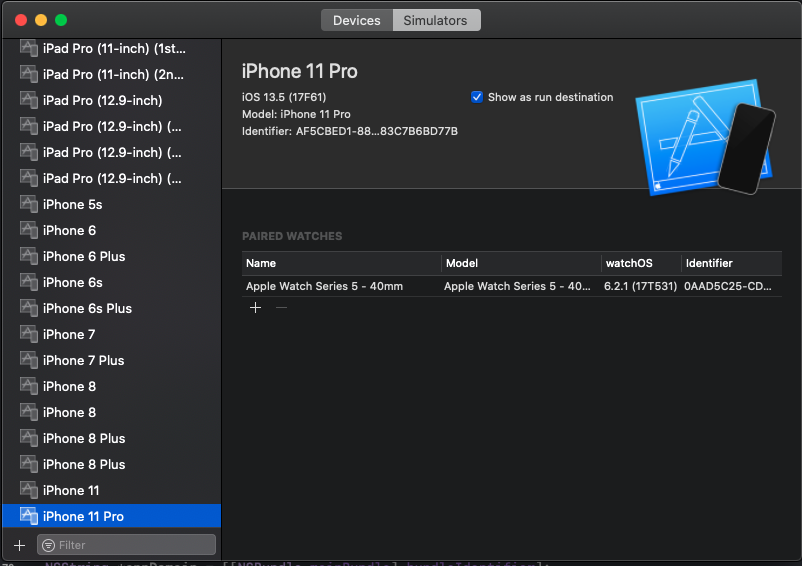
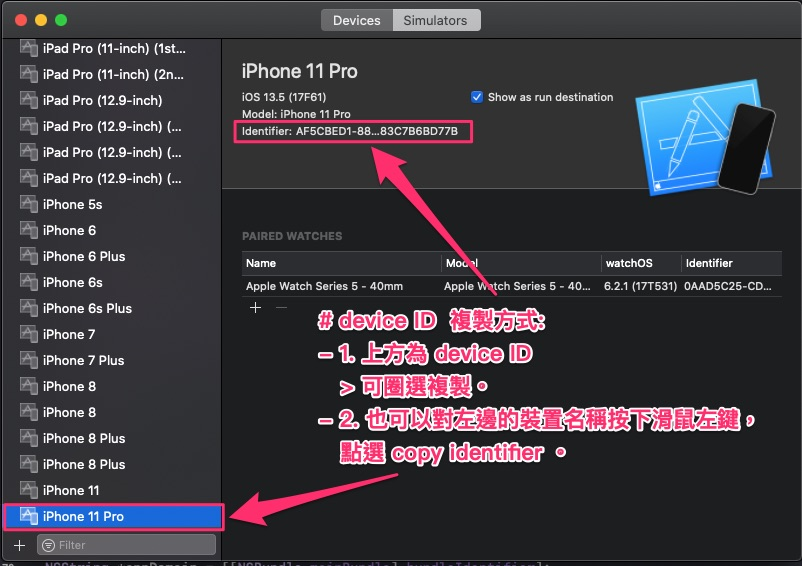
[docs] [feat] [AppCOntainerPos]
# [docs] [feat] [AppCOntainerPos]

- 新增 command line 切換到 simulator devices 資料夾的方式

diff --git a/AppContainerPos/README.md b/AppContainerPos/README.md
@@ -35,7 +35,103 @@
 
     ![Find app container @ Simulator](./pics/2020-05-28-15-51-16.png)
 
-> 可能用程式碼，dump document path 會比較快 (哈)
+  > 可能用程式碼，dump document path 會比較快 (哈)
+
+- 用 command line 方式 :
+
+  - xcode simulator devices 路徑如下 :
+
+    ```sh
+    cd ~/Library/Developer/CoreSimulator/Devices
+    ```
+
+    > 此為所有的 simulator devices 的根目錄。
+
+  - Device ID :
+
+    切換到 simulator devices 後，
+
+    可以下 `ls -al` 查看所有的資料夾。
+
+    每個資料夾名稱都代表一個 Device ID。
+
+    對應上述的 Device ID 會在這個資料夾下面有對應的內容。
+
+  - 範例 :
+
+    ```log
+    total 24
+    drwxr-xr-x  69 esp  staff   2208  6  1 17:37 .
+    drwxr-xr-x   5 esp  staff    160  4  1 13:49 ..
+    drwxr-xr-x@  4 esp  staff    128  4  6 18:03 0025B218-3891-4551-AD6F-55DE7B9D7C0F
+    drwxr-xr-x@  4 esp  staff    128  3 16 16:58 00A7F0E4-AFE2-4608-837A-7BABEF86E4A9
+    drwxr-xr-x@  4 esp  staff    128  3 16 16:58 00F918D7-1AE2-4F8F-AF16-FD5D5C9435F4
+    drwxr-xr-x@  4 esp  staff    128  4  6 18:33 02237A65-45CA-4935-ADA7-AD1E409692F3
+    drwxr-xr-x@  4 esp  staff    128  4  6 18:58 02691928-A0CE-4291-8DD1-5EFB9FEB5BED
+    drwxr-xr-x@  4 esp  staff    128  3 16 16:58 03213B01-C7BE-4009-B6BE-59A7FA5CD6EC
+    drwxr-xr-x@  4 esp  staff    128  4  6 18:58 059770F1-3596-4591-802D-6BA6E2ABE626
+    drwxr-xr-x@  4 esp  staff    128  4  6 18:58 07A2760B-60B8-4794-B24C-9966F3DD8A11
+    drwxr-xr-x@  4 esp  staff    128  3 16 16:58 0A9450D7-CD12-400A-8F77-7FC687E5346A
+    drwxr-xr-x@  4 esp  staff    128  4  6 18:58 0AD814BC-3F25-4D2B-9A8E-F913FF442275
+    drwxr-xr-x@  4 esp  staff    128  3 16 16:58 0EC124F3-24BC-45E4-B75E-E6E11A952060
+    drwxr-xr-x@  4 esp  staff    128  4  6 18:58 128C9445-64B6-44C2-B716-492E9F595DA9
+    drwxr-xr-x@  4 esp  staff    128  4  6 18:58 153AF199-44CD-4410-9379-FF6BD34F3228
+    drwxr-xr-x@  4 esp  staff    128  4  6 18:33 182F929E-DFB8-4878-843C-356D82C03D99
+    drwxr-xr-x@  4 esp  staff    128  4  6 18:58 1960E393-61BB-4425-BDC6-F33DDA4B0941
+    drwxr-xr-x@  4 esp  staff    128  3 16 16:58 1D107B33-0FFF-4FFB-A1D5-7F0F58B58B7B
+    drwxr-xr-x@  4 esp  staff    128  3 16 16:58 26CE726A-FB50-4EB6-834F-E24C8413FFBB
+    drwxr-xr-x@  4 esp  staff    128  4  6 18:33 2E0042F1-992A-4DAC-A186-3B2B8A5151E9
+    drwxr-xr-x@  4 esp  staff    128  3 16 16:58 308D86F7-05EC-4D22-A4E9-B9525A4A3F0B
+    drwxr-xr-x@  4 esp  staff    128  4  6 18:58 324020A2-EB28-4ECC-9C26-7CE2079D1680
+    drwxr-xr-x@  4 esp  staff    128  4  6 18:03 3667D31F-5357-4F59-8C32-326A1B187345
+    drwxr-xr-x@  4 esp  staff    128  5  6 21:10 368062FA-E0F4-49BB-8D23-5694EC6E5FDE
+    drwxr-xr-x@  4 esp  staff    128  4  6 17:51 3A75844C-5FD3-490F-BFB1-71866650EF5C
+    drwxr-xr-x@  4 esp  staff    128  4  6 18:58 42041F39-730B-46E9-9C2A-1819B8286526
+    drwxr-xr-x@  4 esp  staff    128  4  6 18:58 4A458031-948F-461F-9680-0ECF47C3F954
+    drwxr-xr-x@  4 esp  staff    128  4  6 18:58 4E02C3EB-9AE1-4325-9024-0B7BD474588D
+    drwxr-xr-x@  4 esp  staff    128  3 16 16:58 561E73E9-0A5F-4D02-9BAF-B9F73B23A9DC
+    drwxr-xr-x@  4 esp  staff    128  4  6 18:58 5DB7E40A-3FD4-45D7-8436-A457FBEB2F29
+    drwxr-xr-x@  4 esp  staff    128  4  6 18:58 681FF2E0-DF21-40EC-8A34-D46E5D998267
+    drwxr-xr-x@  4 esp  staff    128  4  6 17:51 7299EB5A-BC2E-4114-8DE9-5F6B85509D82
+    drwxr-xr-x@  4 esp  staff    128  4  6 17:51 729DC40D-39E0-4E22-915F-1377AB5A5283
+    drwxr-xr-x@  4 esp  staff    128  3 16 16:58 78F9162F-48FD-43E9-821C-4877EDF1008A
+    drwxr-xr-x@  4 esp  staff    128  4  6 18:33 79D48E65-5096-4F5C-9D5F-E081E92746FC
+    drwxr-xr-x@  4 esp  staff    128  4  6 18:58 7AB77A63-48E5-467E-B9E2-452D4679CD51
+    drwxr-xr-x@  4 esp  staff    128  3 16 16:58 7B69BF6F-0B42-4860-9768-D04DAF2195EF
+    drwxr-xr-x@  4 esp  staff    128  4  6 18:33 7BF47E18-3952-474C-A120-32EE1C44D9A1
+    drwxr-xr-x@  4 esp  staff    128  4  6 18:58 82C13590-373E-4EF9-8436-DA9DCB401681
+    drwxr-xr-x@  4 esp  staff    128  4  6 18:58 83AEC0A3-1D58-4392-B58E-7A2AA1F5E38C
+    drwxr-xr-x@  4 esp  staff    128  4  6 18:58 84E35159-8DBA-422D-9E95-8ADB2C64673A
+    drwxr-xr-x@  4 esp  staff    128  4  6 18:03 86990B30-586B-46E1-A90E-BC752D31CBF9
+    drwxr-xr-x@  4 esp  staff    128  4  6 18:33 910F3CD8-9BC8-4939-8988-EAD5EE62E3D1
+    drwxr-xr-x@  4 esp  staff    128  3 16 16:58 9916BDC5-583A-4A07-B6C6-AB0A28E2D6DF
+    drwxr-xr-x@  4 esp  staff    128  6  1 17:04 9B659B45-B9EA-4D84-BA49-136120C66F2B
+    drwxr-xr-x@  4 esp  staff    128  4  6 18:58 9D465A14-0C4A-4104-9CB4-CB71521D4DA7
+    drwxr-xr-x@  4 esp  staff    128  4  6 18:33 9D6F0282-ECB7-400D-81B2-311397CD249B
+    drwxr-xr-x@  4 esp  staff    128  4  6 18:33 9F0E1411-CD0D-4E6B-9912-0D74E186B45F
+    drwxr-xr-x@  4 esp  staff    128  3 16 16:58 A15CC383-FE7B-43D4-9F03-49A7BA2B7FBD
+    drwxr-xr-x@  4 esp  staff    128  4  6 18:58 A3F9DF14-A91F-4591-A543-990034A1FCF5
+    drwxr-xr-x@  4 esp  staff    128  3 16 16:58 B38C1C86-ED29-4027-94B3-8B11B844A5C5
+    drwxr-xr-x@  4 esp  staff    128  3 16 16:58 C0601BB1-0774-41B8-AD5B-5715CEBE014B
+    drwxr-xr-x@  4 esp  staff    128  3 16 16:58 C1FED49B-81C2-456E-AC9B-90E6BDAEB61F
+    drwxr-xr-x@  4 esp  staff    128  4  6 18:58 C2D99D39-64BD-4479-8224-232F233D7FFB
+    drwxr-xr-x@  4 esp  staff    128  4  6 18:58 C320A7B9-6077-43D7-87F2-908523EFDB4A
+    drwxr-xr-x@  4 esp  staff    128  3 16 16:58 CD5A3082-E2B9-498F-A051-D256DD5F0FA6
+    drwxr-xr-x@  4 esp  staff    128  3 16 16:58 CDCF537B-435D-4F1F-8458-23C68669D6AD
+    drwxr-xr-x@  4 esp  staff    128  3 16 16:58 D05406D8-2A21-4E0C-90E5-891A6D48EE84
+    drwxr-xr-x@  4 esp  staff    128  3 16 16:58 D39BC135-5A61-4909-A2D5-28F34C140FCC
+    drwxr-xr-x@  4 esp  staff    128  4  6 18:33 D4907F27-6B59-407D-A3C1-ED4AF15D302D
+    drwxr-xr-x@  4 esp  staff    128  4  6 18:58 D7C8789C-49CB-4625-97A2-D18C128212E9
+    drwxr-xr-x@  4 esp  staff    128  4  6 18:33 DDAFDF04-E529-4FA7-9B1D-9CE1C9862484
+    drwxr-xr-x@  4 esp  staff    128  4  6 18:33 E2DDF7B3-954D-4478-92FF-F632E5A02EBC
+    drwxr-xr-x@  4 esp  staff    128  4  6 18:58 EEBB923C-51B4-4940-86F5-D10D796D8C27
+    drwxr-xr-x@  4 esp  staff    128  4  6 18:58 F398A385-46D5-4BD3-ADA7-AACE9BF8B6A9
+    drwxr-xr-x@  4 esp  staff    128  4  6 18:58 F4D7E3FA-149B-4127-91BD-091AB013A126
+    drwxr-xr-x@  4 esp  staff    128  5  6 21:11 FF55EB56-A0ED-43DE-A7FA-8AE66C6F17C3
+    -rw-r--r--@  1 esp  staff  10211  5 31 10:15 device_set.plist
+    -rw-r--r--   1 esp  staff      0  6  1 17:37 devices.log
+
+    ```
 
 ---
 
